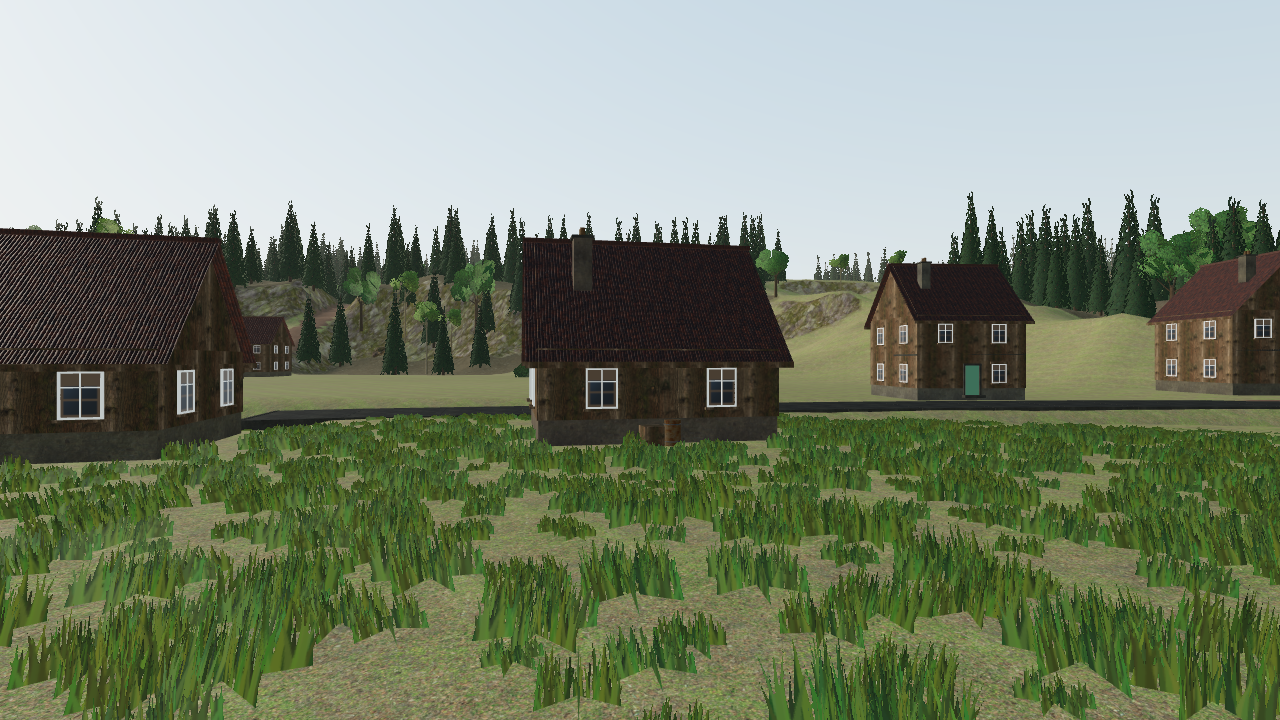
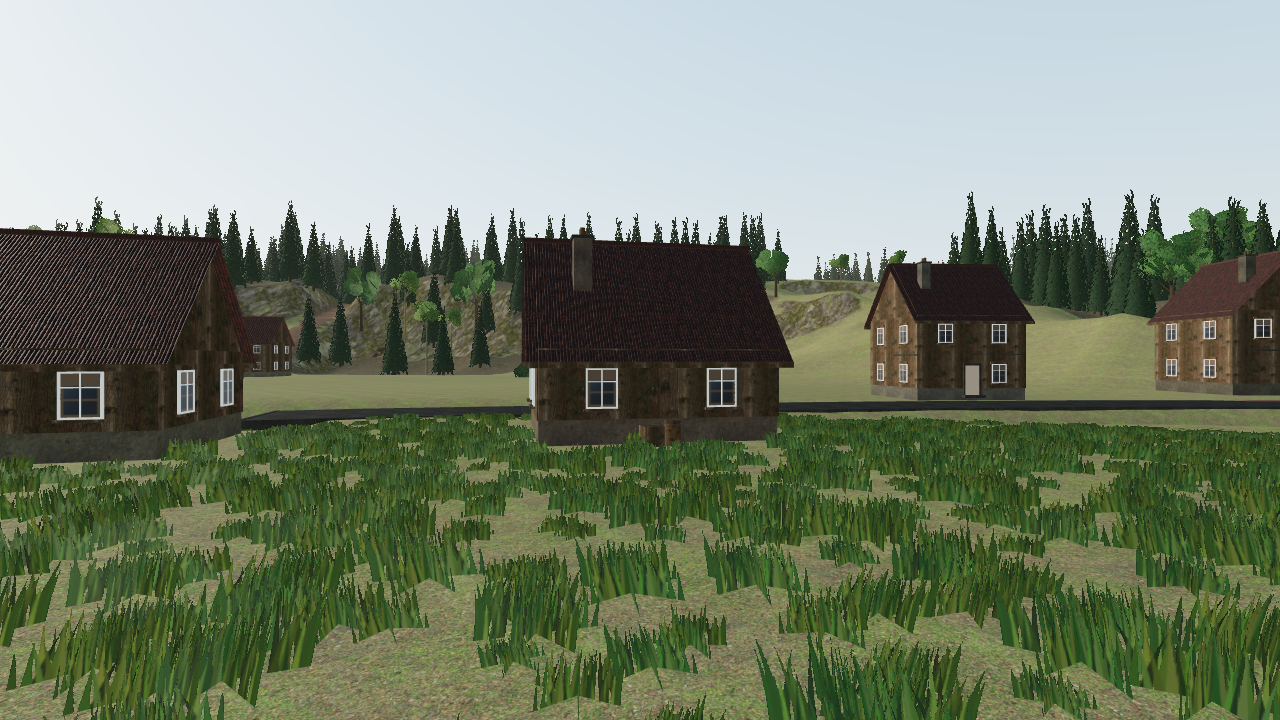
trim tints: sRGB->linear so shutters/doors get real colours

Changed region(s): [[0.0, 0.5806, 1.0, 1.0], [0.75, 0.4889, 0.7812, 0.55], [0.5, 0.9778, 0.5625, 1.0]]

diff --git a/src/world/buildings.js b/src/world/buildings.js
@@ -62,12 +62,13 @@ class Buckets {
   constructor() { this.b = {}; this.tint = null; }
   add(k, g) {
     const n = clean(g); const c = new Float32Array(n.attributes.position.count * 3); const t = (this.tint && this.tint[TINTABLE[k]]) || null;
-    c.fill(1); if (!t && k === 'paintwood') for (let i = 0; i < c.length; i += 3) { c[i] = 0.31; c[i + 1] = 0.42; c[i + 2] = 0.35; } if (t) for (let i = 0; i < c.length; i += 3) { c[i] = t[0]; c[i + 1] = t[1]; c[i + 2] = t[2]; }
+    c.fill(1); if (!t && k === 'paintwood') for (let i = 0; i < c.length; i += 3) { c[i] = 0.076; c[i + 1] = 0.148; c[i + 2] = 0.099; } if (t) for (let i = 0; i < c.length; i += 3) { c[i] = t[0]; c[i + 1] = t[1]; c[i + 2] = t[2]; }
     n.setAttribute('color', new THREE.BufferAttribute(c, 3)); (this.b[k] ||= []).push(n);
   }
 }
 const WALL_TINTS = [[1.05, 1.05, 1.02], [1.3, 1.24, 1.1], [1.28, 1.1, 0.82], [1.12, 1.12, 1.16], [1.25, 1.02, 0.96], [0.95, 0.9, 0.84], [1.35, 1.3, 1.2]];
-const TRIM_TINTS = [[0.31, 0.42, 0.35], [0.2, 0.3, 0.22], [0.5, 0.2, 0.16], [0.26, 0.36, 0.52], [0.36, 0.26, 0.18], [0.78, 0.74, 0.64], [0.22, 0.22, 0.24]];
+// trim colours are authored in sRGB; vertex colours are linear, so convert
+const TRIM_TINTS = [[0.31, 0.42, 0.35], [0.2, 0.3, 0.22], [0.5, 0.2, 0.16], [0.26, 0.36, 0.52], [0.36, 0.26, 0.18], [0.78, 0.74, 0.64], [0.22, 0.22, 0.24]].map((c) => c.map((v) => Math.pow(v, 2.2)));
 function pickTint(r, style) {
   const w = WALL_TINTS[Math.floor(r.next() * WALL_TINTS.length)]; const j = 0.94 + r.next() * 0.1; const rf = 0.82 + r.next() * 0.3;
   return { wall: style === 'desert' ? [(1 + (w[0] - 1) * 0.35) * j, (1 + (w[1] - 1) * 0.35) * j * 0.98, (1 + (w[2] - 1) * 0.35) * j * 0.95] : w.map((v) => v * j), brick: [j, j * (0.95 + r.next() * 0.08), j], trim: TRIM_TINTS[Math.floor(r.next() * TRIM_TINTS.length)], roof: [rf, rf * (0.92 + r.next() * 0.1), rf * (0.9 + r.next() * 0.1)], stoneT: [j, j, j * 0.98] };
